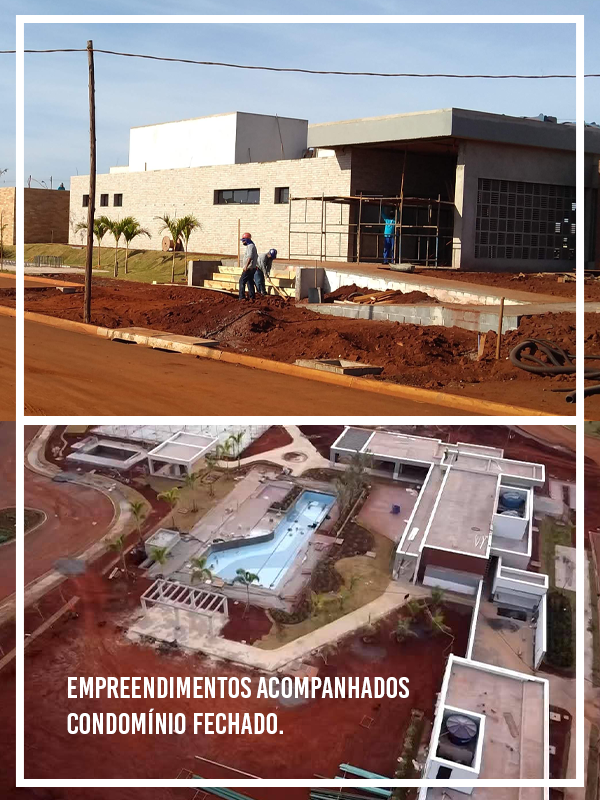
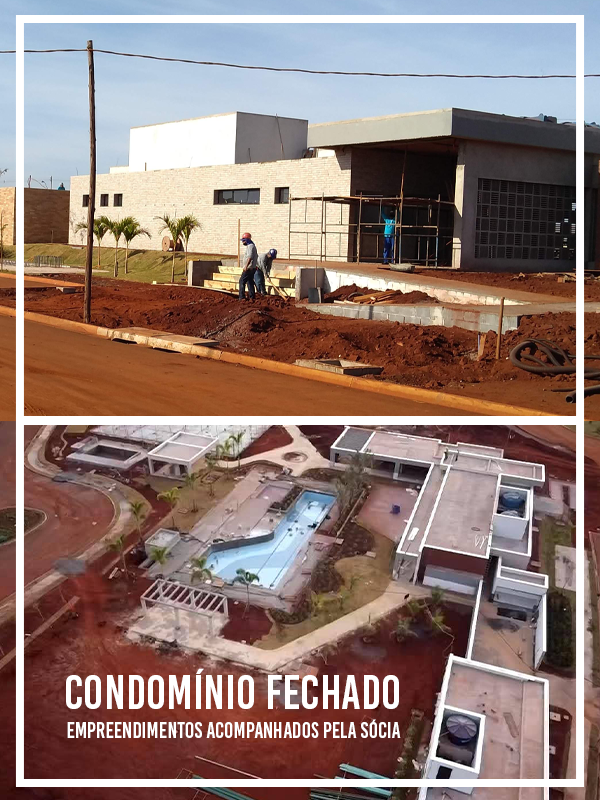
ajustes cliente rodape

Changed region(s): [[0.09, 0.8438, 0.69, 0.9375]]

diff --git a/index.html b/index.html
@@ -92,7 +92,7 @@
         <nav class="hidden md:flex items-center space-x-8">
           <a href="#home" class="text-white transition">Home</a>
           <a href="#company" class="text-white transition">Empresa</a>
-          <a href="#team" class="text-white transition">Sócios</a>
+          <a href="#about" class="text-white transition">Sócios</a>
           <a href="#services" class="text-white transition">Serviços</a>
           <a href="#contact" class="text-white transition">Contato</a>
         </nav>
@@ -116,9 +116,9 @@
     <div id="mobile-menu" class="hidden md:hidden bg-white border-t border-gray-200">
       <nav class="flex flex-col p-4 space-y-4">
         <a href="#home" class="text-primary font-medium hover:text-secondary transition">Home</a>
-        <a href="#about" class="text-gray-600 hover:text-primary transition">Sobre</a>
+        <a href="#company" class="text-gray-600 hover:text-primary transition">Empresa</a>
+        <a href="#about" class="text-gray-600 hover:text-primary transition">Sócios</a>
         <a href="#services" class="text-gray-600 hover:text-primary transition">Serviços</a>
-        <a href="#results" class="text-gray-600 hover:text-primary transition">Resultados</a>
         <a href="#contact" class="text-gray-600 hover:text-primary transition">Contato</a>
         <a href="https://wa.me/5562992990455"
           class="bg-primary hover:bg-secondary text-white px-6 py-2 rounded-md font-medium transition text-center">
@@ -136,7 +136,7 @@
           <img src="img/imagem01.png" alt="Giovana Albuquerque" class="rounded-lg max-w-md w-full" />
         </div>
         <div class="md:w-1/2 mb-10 md:mb-0" data-aos="fade-left">
-          <h1 class="text-4xl md:text-5xl lg:text-6xl font-serif font-bold leading-tight mb-6 bg-primary inline">
+          <h1 class="text-primary text-4xl md:text-5xl lg:text-6xl font-serif font-bold leading-tight mb-6 inline">
             Será que seu planejamento de gestão de obras está correto?
           </h1>
           <p class="text-xl text-primary mb-8 pt-8">
@@ -170,7 +170,7 @@
       </div>
       <div class="grid grid-cols-1 md:grid-cols-2 lg:grid-cols-3 gap-8">
         <!-- Service 1 -->
-        <div class="service-card bg-white rounded-lg shadow-md overflow-hidden transition duration-300"
+        <div id="gerenciamento" class="service-card bg-white rounded-lg shadow-md overflow-hidden transition duration-300"
           data-aos="fade-up" data-aos-delay="100">
           <div class="h-48 bg-gray-200 overflow-hidden">
             <img src="img/servico06.png" alt="Gerenciamento de Obras" class="w-full h-full object-cover" />
@@ -188,7 +188,7 @@
         </div>
 
         <!-- Service 2 -->
-        <div class="service-card bg-white rounded-lg shadow-md overflow-hidden transition duration-300"
+        <div id="monitoramento" class="service-card bg-white rounded-lg shadow-md overflow-hidden transition duration-300"
           data-aos="fade-up" data-aos-delay="200">
           <div class="h-48 bg-gray-200 overflow-hidden">
             <img src="img/servico05.png" alt="Monitoramento e Controle" class="w-full h-full object-cover" />
@@ -207,7 +207,7 @@
         </div>
 
         <!-- Service 3 -->
-        <div class="service-card bg-white rounded-lg shadow-md overflow-hidden transition duration-300"
+        <div id="consultoria" class="service-card bg-white rounded-lg shadow-md overflow-hidden transition duration-300"
           data-aos="fade-up" data-aos-delay="300">
           <div class="h-48 bg-gray-200 overflow-hidden">
             <img src="img/servico04.png" alt="Consultoria Estratégica" class="w-full h-full object-cover" />
@@ -225,7 +225,7 @@
         </div>
 
         <!-- Service 4 -->
-        <div class="service-card bg-white rounded-lg shadow-md overflow-hidden transition duration-300"
+        <div id="capacitacao" class="service-card bg-white rounded-lg shadow-md overflow-hidden transition duration-300"
           data-aos="fade-up" data-aos-delay="400">
           <div class="h-48 bg-gray-200 overflow-hidden">
             <img src="img/servico03.png" alt="Capacitação e Treinamento" class="w-full h-full object-cover" />
@@ -243,7 +243,7 @@
         </div>
 
         <!-- Service 5 -->
-        <div class="service-card bg-white rounded-lg shadow-md overflow-hidden transition duration-300"
+        <div id="engenharia" class="service-card bg-white rounded-lg shadow-md overflow-hidden transition duration-300"
           data-aos="fade-up" data-aos-delay="500">
           <div class="h-48 bg-gray-200 overflow-hidden">
             <img src="img/servico02.png" alt="Engenharia do Proprietário" class="w-full h-full object-cover" />
@@ -262,7 +262,7 @@
         </div>
 
         <!-- Service 6 -->
-        <div class="service-card bg-white rounded-lg shadow-md overflow-hidden transition duration-300"
+        <div id="fiscalizacao" class="service-card bg-white rounded-lg shadow-md overflow-hidden transition duration-300"
           data-aos="fade-up" data-aos-delay="600">
           <div class="h-48 bg-gray-200 overflow-hidden">
             <img src="img/servico01.png" alt="Fiscalização de Obras" class="w-full h-full object-cover" />
@@ -478,22 +478,7 @@
 
               <div>
                 <p class="text-gray-600 pt-2">
-                  <a target="_blank" href="https://www.linkedin.com/in/giovana-albuquerque">Orzen - Assessoria e Gestão
-                    de obras</a>
-                </p>
-              </div>
-            </div>
-            <div class="flex items-start">
-              <div class="bg-secondary text-white p-2 rounded-full mr-4">
-                <a target="_blank" href="https://www.linkedin.com/in/giovana-albuquerque"><i
-                    data-feather="instagram"></i>
-                </a>
-              </div>
-
-              <div>
-                <p class="text-gray-600 pt-2">
-                  <a target="_blank" href="https://www.linkedin.com/in/giovana-albuquerque">Orzen - Assessoria e Gestão
-                    de obras</a>
+                  <a target="_blank" href="https://www.linkedin.com/in/giovana-albuquerque">Giovana Albuquerque</a>
                 </p>
               </div>
             </div>
@@ -628,7 +613,7 @@
           </div>
           <div class="p-6">
             <p class="text-gray-600 mb-4">
-              Torre Residencial – Franca/SP
+             *Torre Residencial – Franca/SP
             </p>
           </div>
         </div>
@@ -642,7 +627,7 @@
           <div class="p-6">
             
             <p class="text-gray-600 mb-4">
-              Torre Residencial –  Ribeirão Preto/SP
+              *Torre Residencial –  Ribeirão Preto/SP
             </p>
           </div>
         </div>
@@ -655,7 +640,7 @@
           </div>
           <div class="p-6">
             <p class="text-gray-600 mb-4">
-              Torre Residencial – Franca/SP.
+              *Torre Residencial – Franca/SP.
             </p>
           </div>
         </div>
@@ -668,11 +653,12 @@
           </div>
           <div class="p-6">
             <p class="text-gray-600 mb-4">
-              Casa em Condomínio – São Carlos/SP.
+              *Casa em Condomínio – São Carlos/SP.
             </p>
           </div>
         </div>
 
+        <span class="text-sm text-gray-400 italic">*Empreendimentos acompanhados pela sócia.</span>
        
       </div>
     </div>
@@ -840,22 +826,22 @@
           <h4 class="font-bold mb-4">Serviços</h4>
           <ul class="space-y-2">
             <li class="flex items-center">
-              <p class="text-gray-400">Gerenciamento de Obras</p>
+              <a href="#gerenciamento" class="text-gray-400">Gerenciamento de Obras</a>
             </li>
             <li class="flex items-center">
-              <p class="text-gray-400">Monitoramento e Controle</p>
+              <a href="#monitoramento" class="text-gray-400">Monitoramento e Controle</a>
             </li>
             <li class="flex items-center">
-              <p class="text-gray-400">Consultoria Estratégica</p>
+              <a href="#consultoria" class="text-gray-400">Consultoria Estratégica</a>
             </li>
             <li class="flex items-center">
-              <p class="text-gray-400">Capacitação e Treinamento</p>
+              <a href="#capacitacao" class="text-gray-400">Capacitação e Treinamento</a>
             </li>
             <li class="flex items-center">
-              <p class="text-gray-400">Engenharia do Proprietário</p>
+              <a href="#engenharia" class="text-gray-400">Engenharia do Proprietário</a>
             </li>
             <li class="flex items-center">
-              <p class="text-gray-400">Fiscalização de Obras</p>
+              <a href="#fiscalizacao" class="text-gray-400">Fiscalização de Obras</a>
             </li>
            
           </ul>
